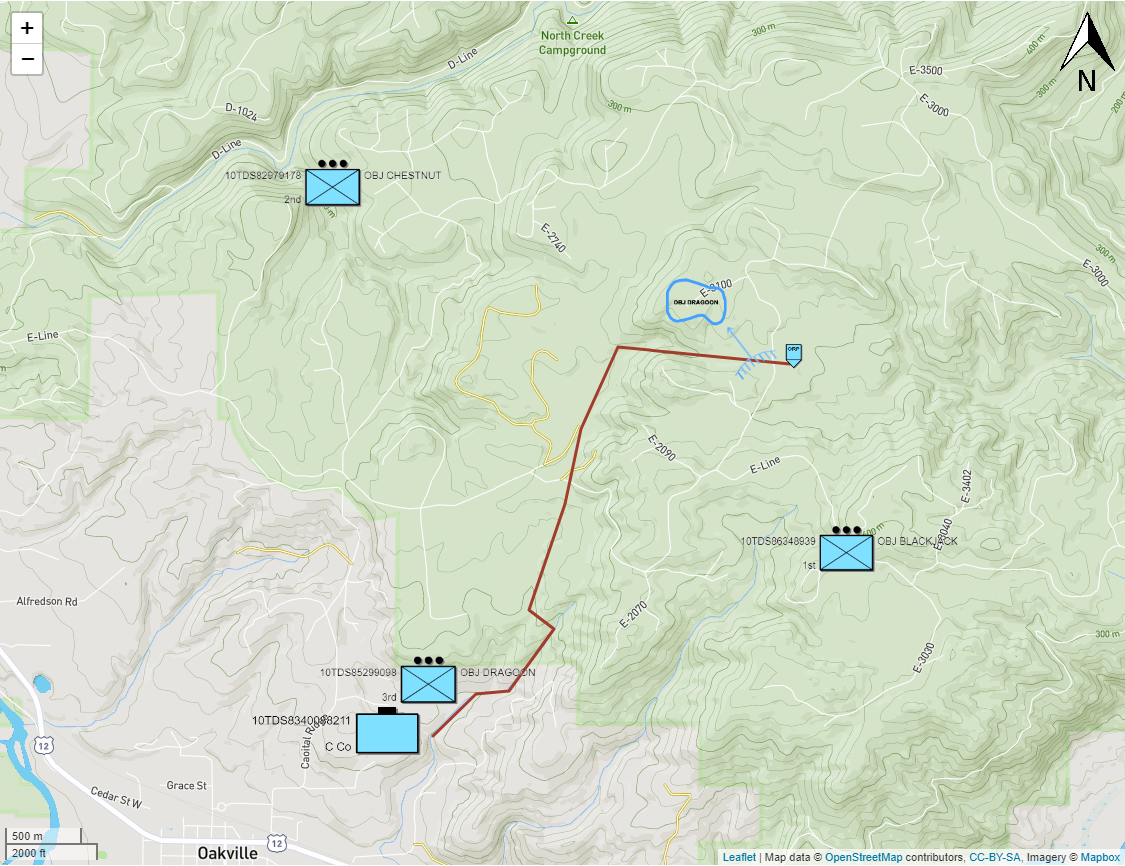
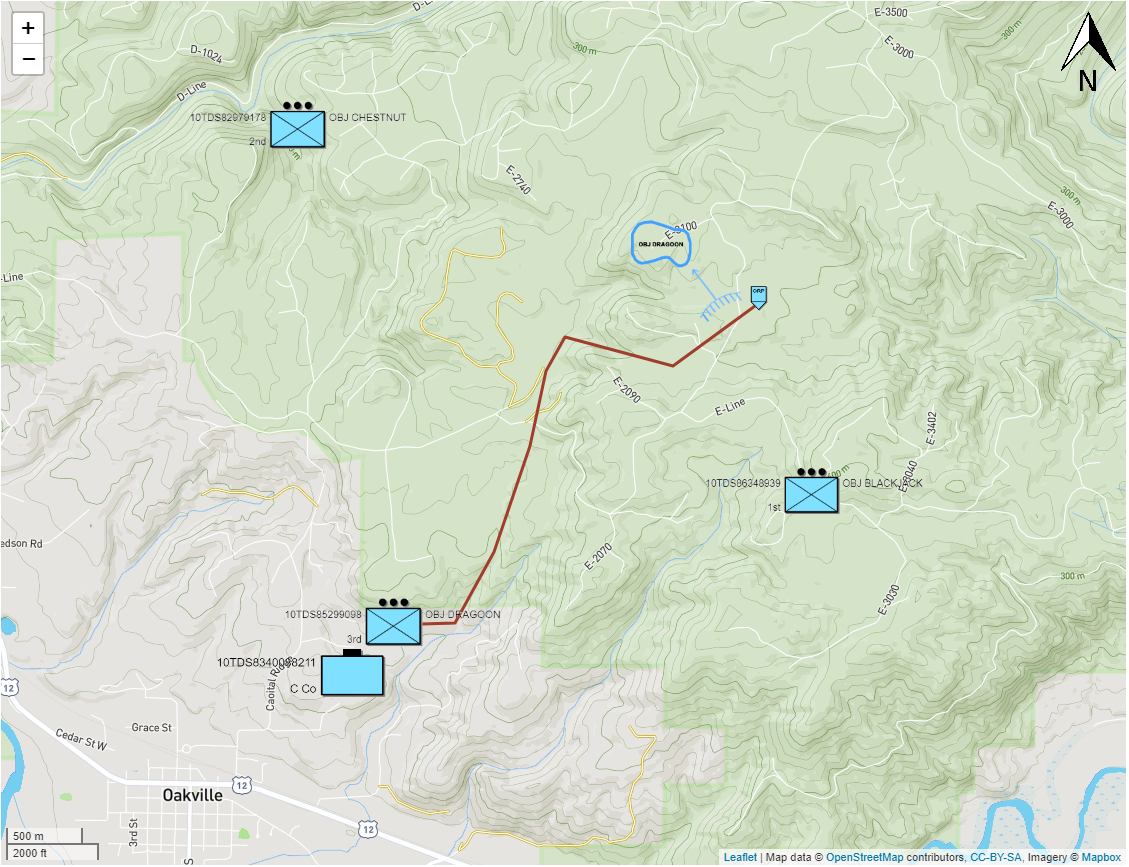
Updated ORP and Routeplan & added close up image

Changed region(s): [[0.0, 0.0, 1.0, 1.0], [0.0, 0.6236, 0.0311, 0.6547]]

diff --git a/OPORD1/scripts.js b/OPORD1/scripts.js
@@ -45,7 +45,7 @@ L.marker([ 46.87109, -123.19171 ], {icon: ambush}).addTo(mymap);
 //ORP Symbol
 var orp = L.divIcon({className: 'orp',iconAnchor: [5,20]});
 // you can set .my-div-icon styles in CSS
-L.marker([ 46.8688900, -123.1843951 ], {icon: orp}).addTo(mymap);
+L.marker([ 46.8653689, -123.1913763 ], {icon: orp}).addTo(mymap);
 
 // //ORP Symbol
 // var protractor = L.divIcon({className: 'protractor',iconAnchor: [5,20]});
